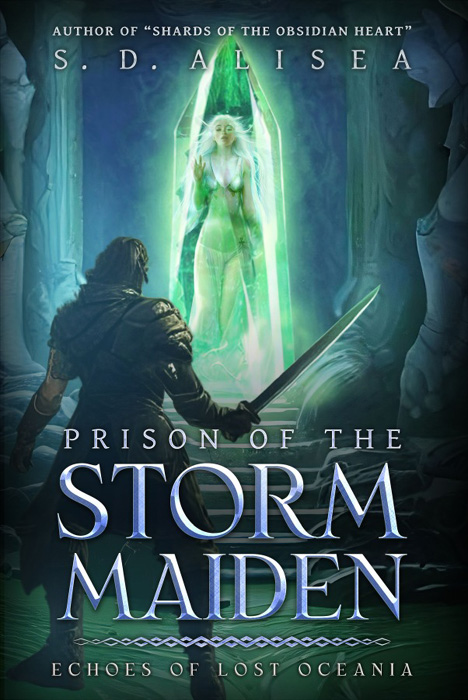
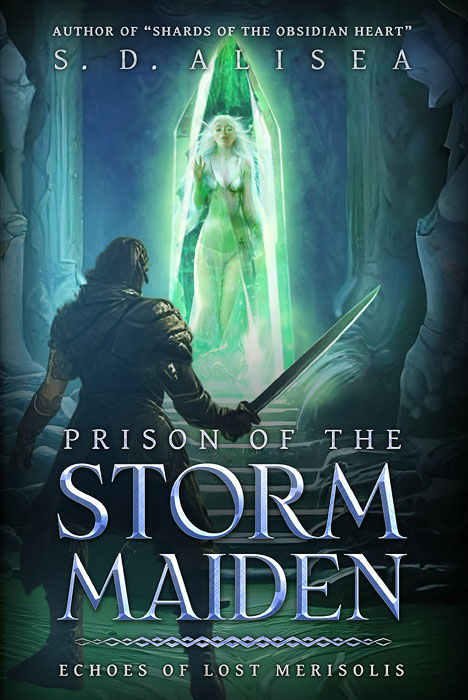
Add files via upload

diff --git a/index.html b/index.html
@@ -95,7 +95,7 @@
 
 					<div class="button-centre">
 			  
-					<div class="special-subtitle">Echoes of Lost Oceania</div>
+					<div class="special-subtitle">Echoes of Lost Merisolis</div>
 
 				</div>
 
@@ -104,7 +104,7 @@
 				
 				<p><i><b>A warrior-lord rejected by his people, a cursed figurine, and a maiden from times long past thrust into an unfamiliar world!</b></i></p>
 				<p>Searching within the twisting passages of a forgotten mountain temple, an exiled warrior-lord of Ansharas discovers a cursed agate figurine of the trickster god, whose chaotic magic may bestow doom as well as fortune! But when its monstrous guardians trap him within the heart of the ancient vaults, he has no choice but to test his luck.</p>
-				<p>And luck is with him &mdash; for imprisoned within an enchanted crystal awaits a sleeping daughter of lost Oceania, preserved and shielded from the ravages of the ages, now the last of her kind and alone in the world.</p>
+				<p>And luck is with him &mdash; for imprisoned within an enchanted crystal awaits a sleeping daughter of lost Merisolis, preserved and shielded from the ravages of the ages, now the last of her kind and alone in the world.</p>
 				<p>Together, with her power over the forces of nature and his prowess with the sword, they must traverse the perilous corridors of the deadly complex to escape the dangers of its ravenous guardians. But will the Chaos Lord favour them both with their freedom, or will their passionate hearts entangle them in a stormy prison of desire?</p>
 				<p>Find out, in <i>Prison of the Storm Maiden!</i></p>
 
